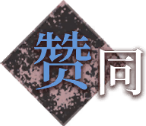
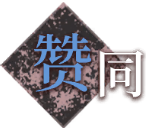
feat: support magic statements for the trial image generation

diff --git a/nonebot_plugin_manosaba_memes/__init__.py b/nonebot_plugin_manosaba_memes/__init__.py
@@ -27,8 +27,9 @@ usage = """
 切换角色 [角色名]
     角色名可选：艾玛, 希罗
 发送格式如下的消息以生成审判表情包：
-【疑问/反驳/伪证/赞同】这是一个选项文本
-可发送多行以添加多个选项
+【疑问/反驳/伪证/赞同/魔法:[角色名]】这是一个选项文本
+    角色名可选：梅露露, 诺亚, 汉娜, 奈叶香, 亚里沙, 米莉亚, 雪莉, 艾玛, 玛格, 安安, 可可, 希罗, 蕾雅
+    可发送多行以添加多个选项
 """.strip()
 
 __plugin_meta__ = PluginMetadata(
@@ -56,7 +57,9 @@ anan_says_handler = on_alconna(
     aliases={"anan说", "anansays"},
     use_cmd_start=True,
 )
-trail_handler = on_regex(r"^【(疑问|反驳|伪证|赞同)】(.+)$", flags=re.MULTILINE)
+trail_handler = on_regex(
+    r"^【(疑问|反驳|伪证|赞同|魔法)(?:[:：]([^】]*))?】(.+)$", flags=re.MULTILINE
+)
 switch_character_handler = on_alconna(
     Alconna(
         "切换角色",
@@ -85,14 +88,26 @@ async def handle_anan_says(result: Arparma):
 @trail_handler.handle()
 async def handle_trail(bot: Bot, event: Event):
     matches = re.findall(
-        r"^【(疑问|反驳|伪证|赞同)】(.+)$",
+        r"^【(疑问|反驳|伪证|赞同|魔法)(?:[:：]([^】]*))?】(.+)$",
         event.get_message().extract_plain_text(),
         flags=re.M,
     )
 
     options = []
-    for statement_type, text in matches:
-        statement_enum = get_statement(statement_type)
+    for statement_type, arg, text in matches:
+        try:
+            statement_enum = get_statement(statement_type, arg)
+        except KeyError:
+            if arg:
+                await trail_handler.finish(
+                    f"角色 {arg} 无效，请从以下选项中选择："
+                    "梅露露, 诺亚, 汉娜, 奈叶香, 亚里沙, 米莉亚, 雪莉, 艾玛, 玛格, 安安, 可可, 希罗, 蕾雅"
+                )
+            else:
+                await trail_handler.finish(
+                    "魔法类型无效，请输入【魔法:角色】格式。可选的角色有："
+                    "梅露露, 诺亚, 汉娜, 奈叶香, 亚里沙, 米莉亚, 雪莉, 艾玛, 玛格, 安安, 可可, 希罗, 蕾雅"
+                )
         options.append(Option(statement_enum, text))
 
     try:

diff --git a/nonebot_plugin_manosaba_memes/utils.py b/nonebot_plugin_manosaba_memes/utils.py
@@ -1,22 +1,58 @@
+from typing import Optional
+
 from .models import Statement, Character
 
 
-def get_statement(statement: str) -> Statement:
-    """Convert a string statement type to a Statement enum
+def get_magic_statement(text: str) -> Statement:
+    """Convert a string magic statement type to a Statement enum
 
     Args:
-        statement (str): The string representation of the statement type
+        text (str): The string representation of the magic statement type
 
     Returns:
         Statement: The corresponding Statement enum
     """
     mapping = {
-        "赞同": Statement.AGREEMENT,
-        "疑问": Statement.DOUBT,
-        "伪证": Statement.PURJURY,
-        "反驳": Statement.REFUTATION,
+        "梅露露": Statement.MAGIC_CHIYUSAISEI,
+        "诺亚": Statement.MAGIC_EKITAISOUSA,
+        "汉娜": Statement.MAGIC_FUYUU,
+        "奈叶香": Statement.MAGIC_GENSHI,
+        "亚里沙": Statement.MAGIC_HAKKA,
+        "米莉亚": Statement.MAGIC_IREKAWARI,
+        "雪莉": Statement.MAGIC_KAIRIKI,
+        "艾玛": Statement.MAGIC_MAJOGOROSHI,
+        "玛格": Statement.MAGIC_MONOMANE,
+        "安安": Statement.MAGIC_SENNOU,
+        "可可": Statement.MAGIC_SENRIGAN,
+        "希罗": Statement.MAGIC_SHINIMODORI,
+        "蕾雅": Statement.MAGIC_SHISENYUUDOU,
     }
-    return mapping[statement]
+    return mapping[text]
+
+
+def get_statement(statement: str, arg: Optional[str] = None) -> Statement:
+    """Convert a string statement type to a Statement enum
+
+    Args:
+        statement (str): The string representation of the statement type
+        arg (Optional[str]): Extra argument for the magic statement types
+
+    Returns:
+        Statement: The corresponding Statement enum
+    """
+    match statement:
+        case "赞同":
+            return Statement.AGREEMENT
+        case "疑问":
+            return Statement.DOUBT
+        case "伪证":
+            return Statement.PURJURY
+        case "反驳":
+            return Statement.REFUTATION
+        case "魔法":
+            return get_magic_statement(arg)
+        case _:
+            assert False, "Invalid statement type"
 
 
 def get_character(character: str) -> Character:

diff --git a/nonebot_plugin_manosaba_memes/drawer.py b/nonebot_plugin_manosaba_memes/drawer.py
@@ -68,6 +68,19 @@ def get_statement_image(statement: Statement) -> str:
         Statement.DOUBT: "doubt.png",
         Statement.PURJURY: "perjury.png",
         Statement.REFUTATION: "refutation.png",
+        Statement.MAGIC_CHIYUSAISEI: "magic_chiyusaisei.png",
+        Statement.MAGIC_EKITAISOUSA: "magic_ekitaisousa.png",
+        Statement.MAGIC_FUYUU: "magic_fuyuu.png",
+        Statement.MAGIC_GENSHI: "magic_genshi.png",
+        Statement.MAGIC_HAKKA: "magic_hakka.png",
+        Statement.MAGIC_IREKAWARI: "magic_irekawari.png",
+        Statement.MAGIC_KAIRIKI: "magic_kairiki.png",
+        Statement.MAGIC_MAJOGOROSHI: "magic_majogoroshi.png",
+        Statement.MAGIC_MONOMANE: "magic_monomane.png",
+        Statement.MAGIC_SENNOU: "magic_sennou.png",
+        Statement.MAGIC_SENRIGAN: "magic_senrigan.png",
+        Statement.MAGIC_SHINIMODORI: "magic_shinimodori.png",
+        Statement.MAGIC_SHISENYUUDOU: "magic_shisenyuudou.png",
     }
     return str(PLUGIN_PATH / f"assets/trial/{mapping[statement]}")
 
@@ -156,7 +169,7 @@ def draw_trial(character: Character, options: List[Option]):
             )
             .paste_image(
                 get_statement_image(option.statement),
-                region=DrawerRegion(x + 21, y - 41, x + 21 + 146, y - 41 + 126),
+                region=DrawerRegion(x + 21, y - 43, x + 21 + 146, y - 43 + 128),
                 style=PasteStyle(keep_alpha=False),
             )
         )

diff --git a/nonebot_plugin_manosaba_memes/models.py b/nonebot_plugin_manosaba_memes/models.py
@@ -21,6 +21,19 @@ class Statement(StrEnum):
     DOUBT = "Doubt"
     PURJURY = "Perjury"
     REFUTATION = "Refutation"
+    MAGIC_CHIYUSAISEI = "Magic Chiyu & Saisei"
+    MAGIC_EKITAISOUSA = "Magic Ekitai Sousa"
+    MAGIC_FUYUU = "Magic Fuyuu"
+    MAGIC_GENSHI = "Magic Genshi"
+    MAGIC_HAKKA = "Magic Hakka"
+    MAGIC_IREKAWARI = "Magic Irekawari"
+    MAGIC_KAIRIKI = "Magic Kairiki"
+    MAGIC_MAJOGOROSHI = "Magic Majo Goroshi"
+    MAGIC_MONOMANE = "Magic Monomane"
+    MAGIC_SENNOU = "Magic Sennou"
+    MAGIC_SENRIGAN = "Magic Senrigan"
+    MAGIC_SHINIMODORI = "Magic Shini Modori"
+    MAGIC_SHISENYUUDOU = "Magic Shisen Yuudou"
 
 
 class Option:

diff --git a/README.md b/README.md
@@ -16,7 +16,7 @@ _✨ [NoneBot2](https://github.com/nonebot/nonebot2) 魔法少女的魔女审判
 
 </div>
 
-~~[#まのさばネタバレ](https://manosaba.com)~~
+[#まのさばネタバレ](https://manosaba.com)（有剧透）
 
 ## 介绍
 
@@ -45,13 +45,16 @@ _✨ [NoneBot2](https://github.com/nonebot/nonebot2) 魔法少女的魔女审判
 
 生成审判时的选项图片
 
-**格式**: 【疑问/反驳/伪证/赞同】[文本]
+**格式**: 【疑问/反驳/伪证/赞同/魔法:[角色]】[文本]
 
 
-| 示例 1 | 示例 2 |
+| **示例 1** | **示例 2** |
 | :---: | :---: |
 | 【伪证】我和艾玛不是恋人<br>【赞同】我们初中的时候就确认关系了 | 【疑问】汉娜和雪莉约会没有邀请我很可疑 |
 | ![trail_example1](./previews/trial01.png) | ![trail_example2](./previews/trial02.png) |
+| **示例 3** | **示例 4** |
+| 【魔法:诺亚】液体操控 | 【魔法:雪莉】【怪力】 |
+| ![trail_example3](./previews/trial03.png) | ![trail_example4](./previews/trial04.png) |
 
 **注意**:
 1. 使用 `切换角色 [艾玛/希罗]` 可以切换角色，角色与用户绑定
